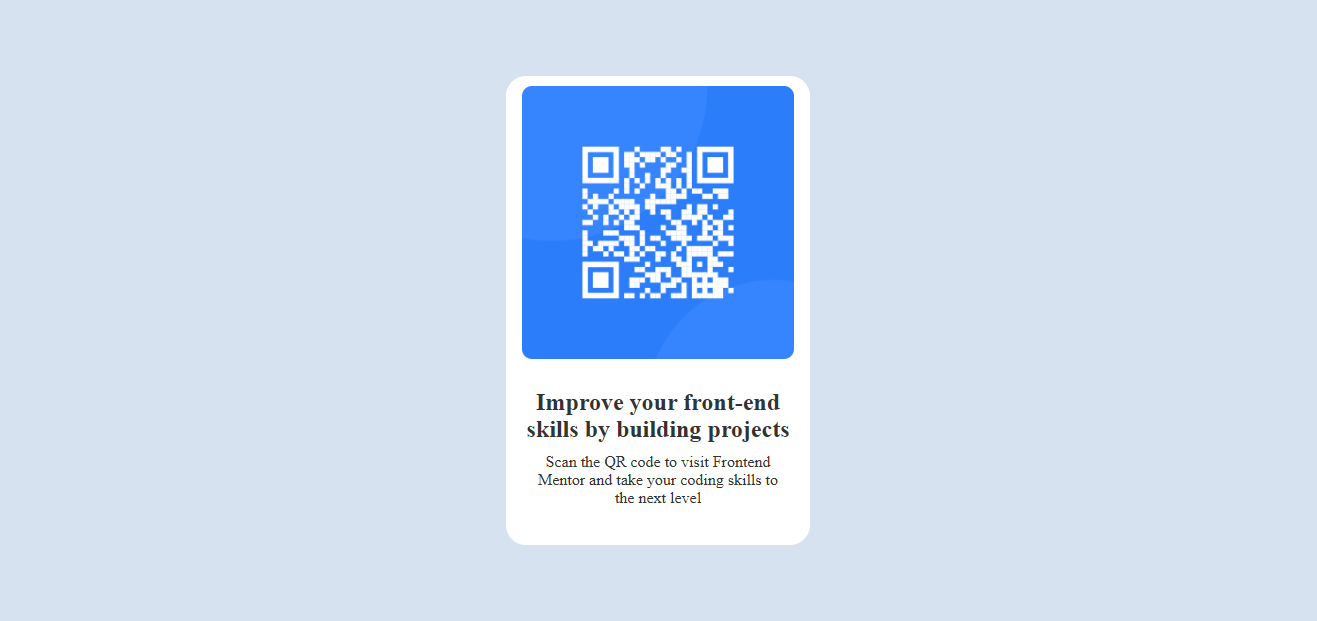
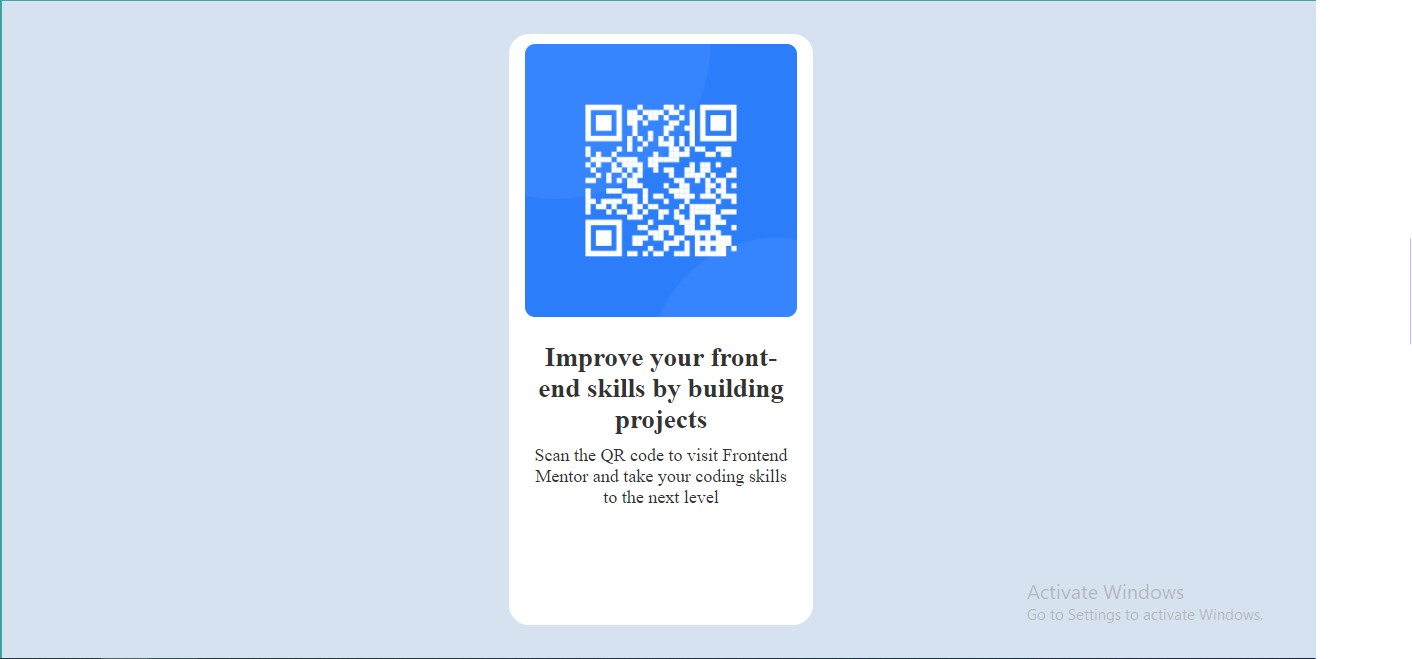
Suggested Edit

diff --git a/index.html b/index.html
@@ -32,7 +32,7 @@
     .card{
       background-color:hsl(0, 0%, 100%);
       width:23%;
-      height: 75%;
+      height: 90%;
       border-radius: 20px;
       display: flex;
       align-items: center;
@@ -54,7 +54,8 @@
     #card-content{
       text-align: center;
       margin: 0 20px;
-      padding: 10px;
+      padding: 15px;
+      font-size: large;
     }
     p{
       margin: 10px;
@@ -68,13 +69,10 @@
         <img src="./images/image-qr-code.png" alt="">
       </div>
       <div id="card-content">
-         <h2>
-          <p>Improve your front-end skills by building projects</p></h2>
-        <p>Scan the QR code to visit Frontend Mentor and take your coding skills to the next level
-        </p>
+        <h2>Improve your front-end skills by building projects</h2>
+        <p>Scan the QR code to visit Frontend Mentor and take your coding skills to the next level</p>
       </div>
     </div>
   </div>
-
 </body>
 </html>
